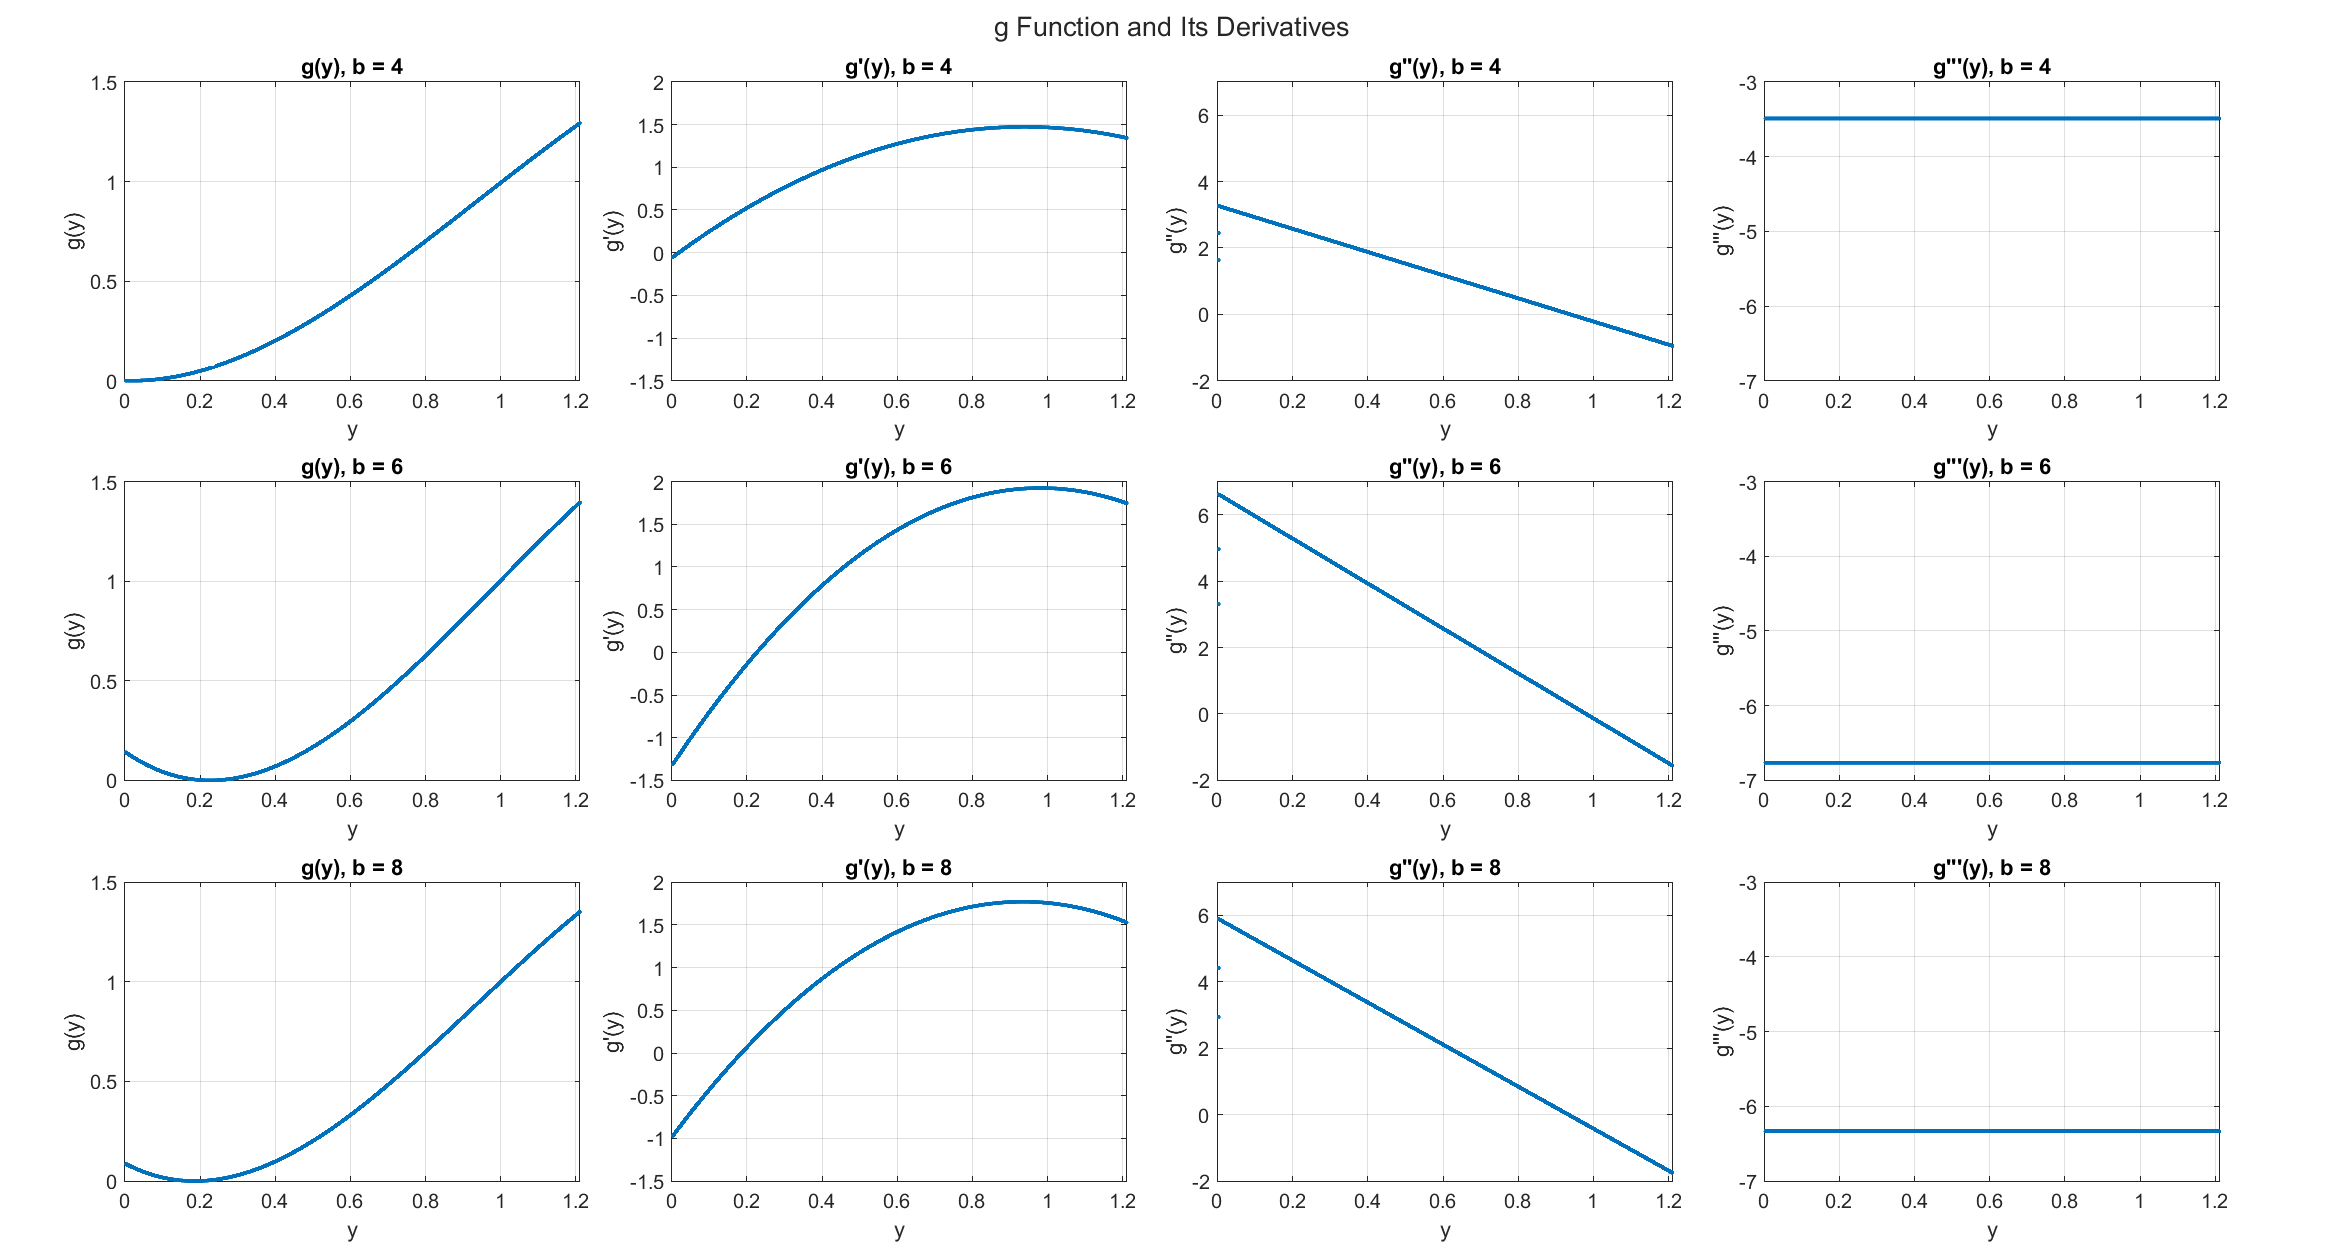
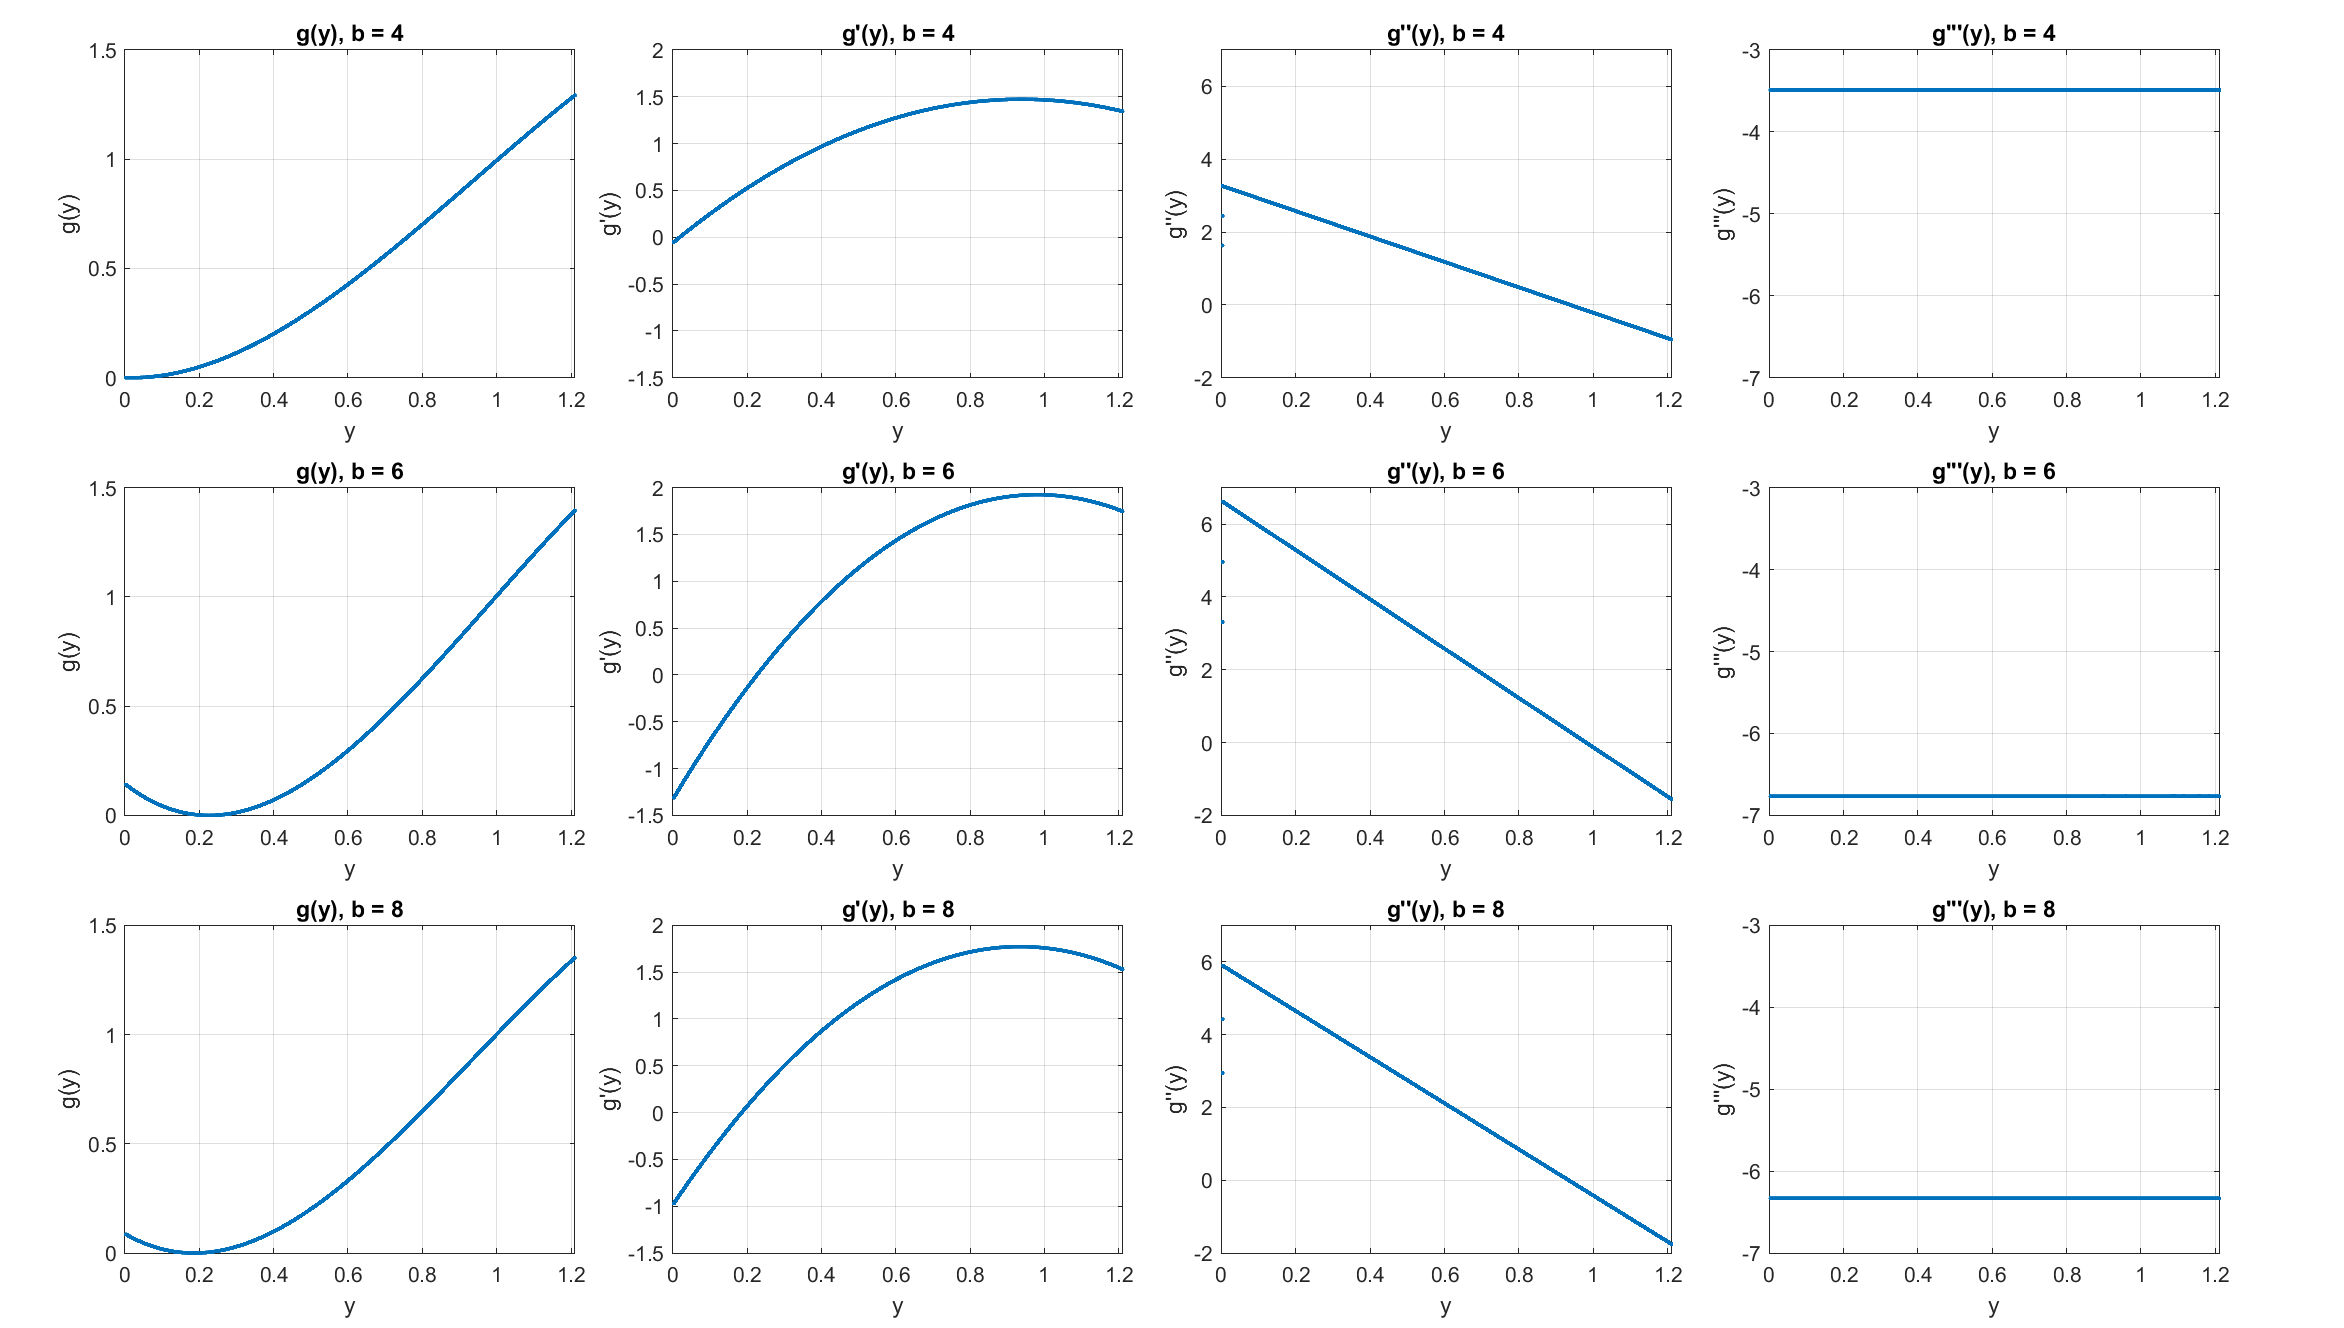
Remove sgtitle

diff --git a/04  風險偏好指標（Risk Preference）/Procedure__Risk_Preference.m b/04  風險偏好指標（Risk Preference）/Procedure__Risk_Preference.m
@@ -190,7 +190,7 @@ for idx = 1:3
     set(gca, 'box', 'on');
     hold off;
 end
-sgtitle('g Function');
+% sgtitle('g Function');
 
 set(gcf, 'Position', [100, 100, 1200, 400]);
 
@@ -263,9 +263,9 @@ for idx = 1:3
 
 end
 
-sgtitle('g Function and Its Derivatives');
+% sgtitle('g Function and Its Derivatives');
 
-set(gcf, 'Position', [100, 100, 1500, 800]);
+set(gcf, 'Position', [100, 100, 1500, 850]);
 
 filename = 'g_Function_and_Its_Derivatives.png';
 saveas(gcf, fullfile(Path_Output, filename));
@@ -296,7 +296,7 @@ for idx = 1:3
     set(gca, 'box', 'on');
     hold off;
 end
-sgtitle('Absolute Risk Aversion (ARA)');
+% sgtitle('Absolute Risk Aversion (ARA)');
 
 set(gcf, 'Position', [100, 100, 1200, 400]);
 
@@ -329,7 +329,7 @@ for idx = 1:3
     set(gca, 'box', 'on');
     hold off;
 end
-sgtitle('Relative Risk Aversion (RRA)');
+% sgtitle('Relative Risk Aversion (RRA)');
 
 set(gcf, 'Position', [100, 100, 1200, 400]);
 
@@ -362,7 +362,7 @@ for idx = 1:3
     set(gca, 'box', 'on');
     hold off;
 end
-sgtitle('Absolute Prudence (AP)');
+% sgtitle('Absolute Prudence (AP)');
 
 set(gcf, 'Position', [100, 100, 1200, 400]);
 
@@ -395,7 +395,7 @@ for idx = 1:3
     set(gca, 'box', 'on');
     hold off;
 end
-sgtitle('Relative Prudence (RP)');
+% sgtitle('Relative Prudence (RP)');
 
 set(gcf, 'Position', [100, 100, 1200, 400]);
 
@@ -428,7 +428,7 @@ for idx = 1:3
     set(gca, 'box', 'on');
     hold off;
 end
-sgtitle('Absolute Temperance (AT)');
+% sgtitle('Absolute Temperance (AT)');
 
 set(gcf, 'Position', [100, 100, 1200, 400]);
 
@@ -461,7 +461,7 @@ for idx = 1:3
     set(gca, 'box', 'on');
     hold off;
 end
-sgtitle('Relative Temperance (RT)');
+% sgtitle('Relative Temperance (RT)');
 
 set(gcf, 'Position', [100, 100, 1200, 400]);
 
